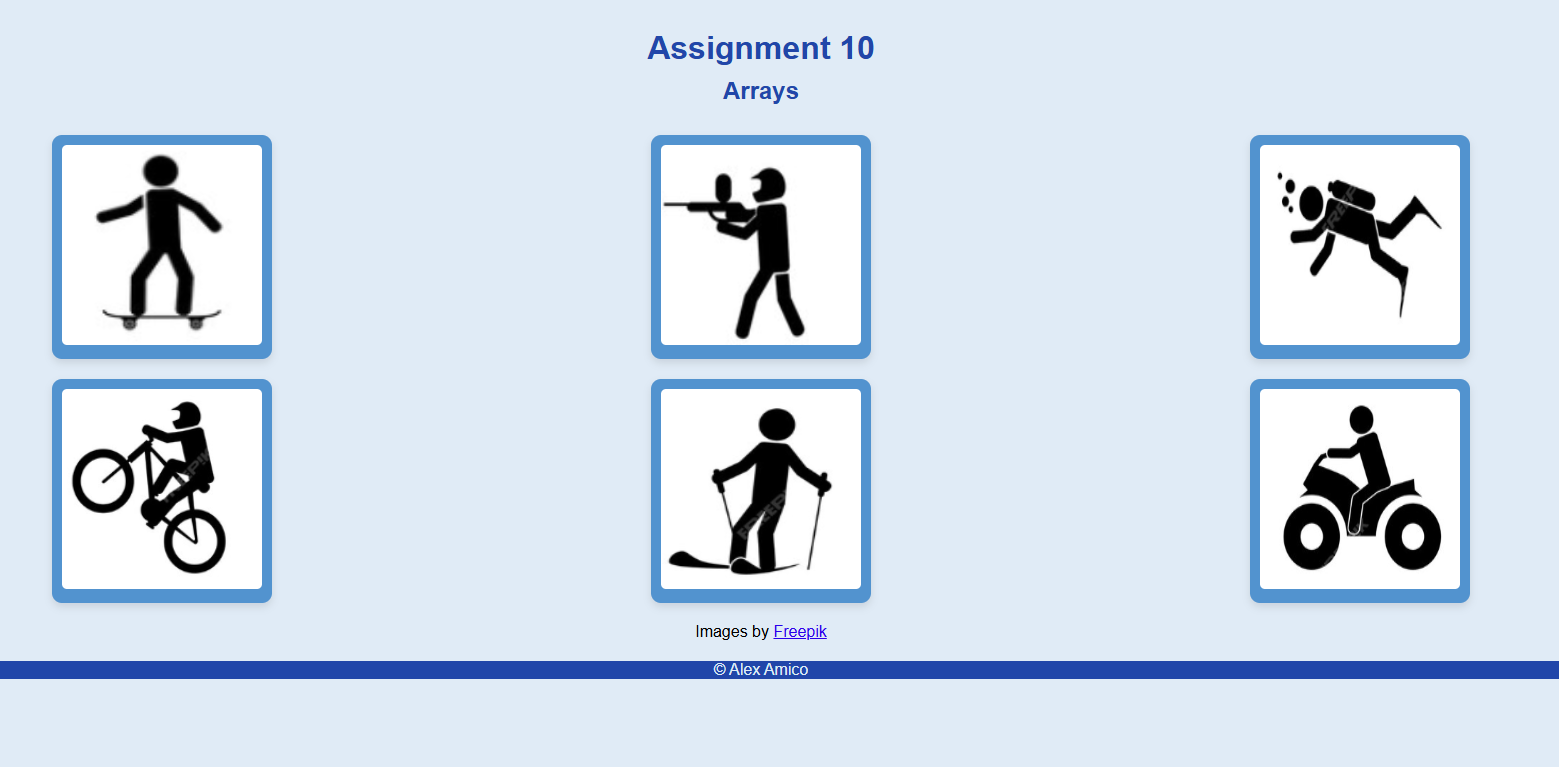
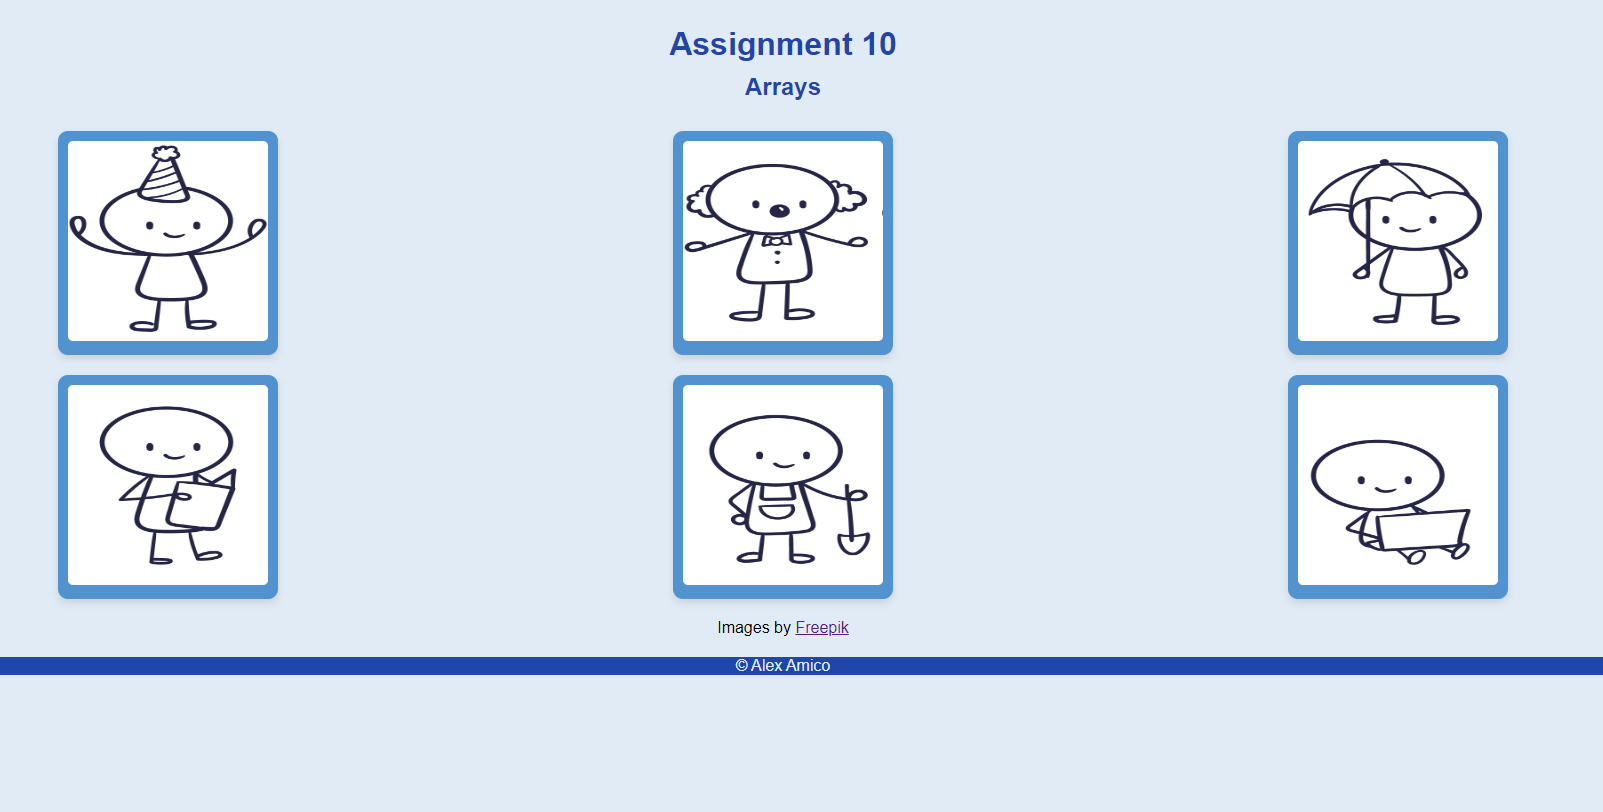
assignment 10

Changed region(s): [[0.0, 0.03, 1.0, 0.8996]]

diff --git a/csce242/assignments/assignment10/script.js b/csce242/assignments/assignment10/script.js
@@ -1,34 +1,34 @@
 // Associative array containing image paths and descriptions
 const images = [
     {
-        src: "images/longboarding.png",
-        title: "Longboarding",
-        description: "longboarding through the neighborhood."
+        src: "images/birthday.jpg",
+        title: "Birthday",
+        description: "It's little Timmy's Birthday."
     },
     {
-        src: "images/paintballing.png",
-        title: "Paintballing",
-        description: "Winning an awesome paintball match."
+        src: "images/clown.jpg",
+        title: "Clown",
+        description: "There is a clown show at the birthday party."
     },
     {
-        src: "images/scubadiving.png",
-        title: "Scuba Diving",
-        description: "Exploring underwater by scuba diving."
+        src: "images/rain.jpg",
+        title: "Rain",
+        description: "it starts to rain at the birthday party."
     },
     {
-        src: "images/biking.png",
-        title: "Biking",
-        description: "Riding a bike through the mountains."
+        src: "images/read.jpg",
+        title: "Read",
+        description: "Mom starts reading a book to the guests."
     },
     {
-        src: "images/skiing.png",
-        title: "Skiing",
-        description: "Skiing down the snowy slopes."
+        src: "images/shovel.jpg",
+        title: "Shovel",
+        description: "The rain turns to snow, we must clear the driveway."
     },
     {
-        src: "images/fourwheeling.png",
-        title: "Four Wheeling",
-        description: "Riding my property on a four-wheeler."
+        src: "images/work.jpg",
+        title: "Work",
+        description: "Timmy watches some fun videos online after his friends leave."
     }
 ];
 
